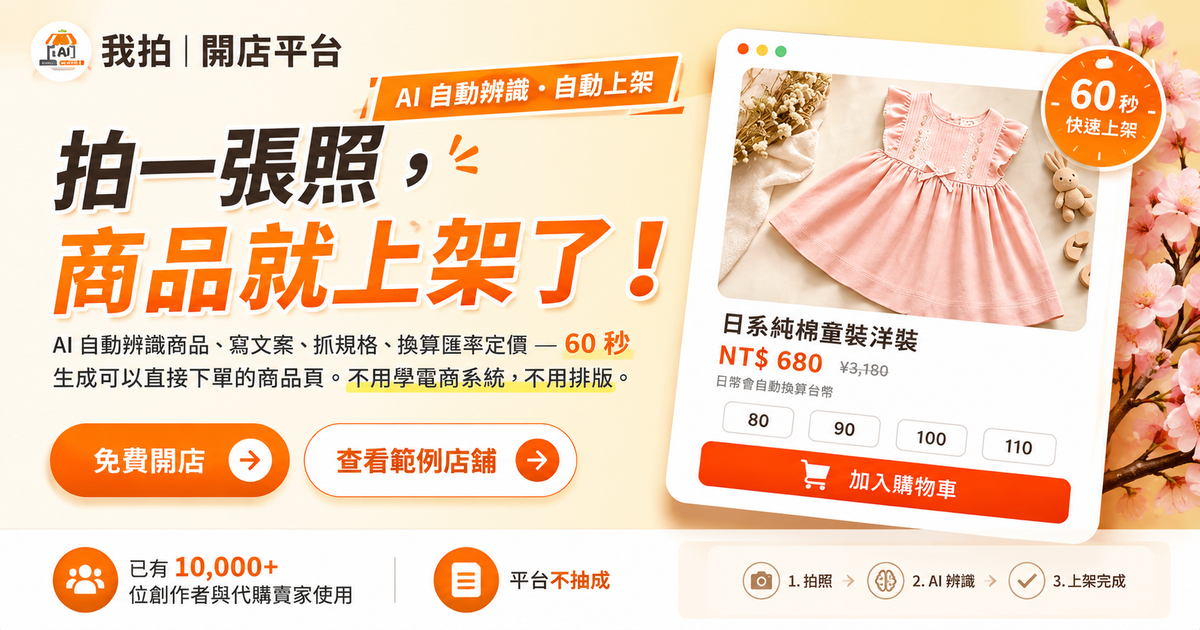
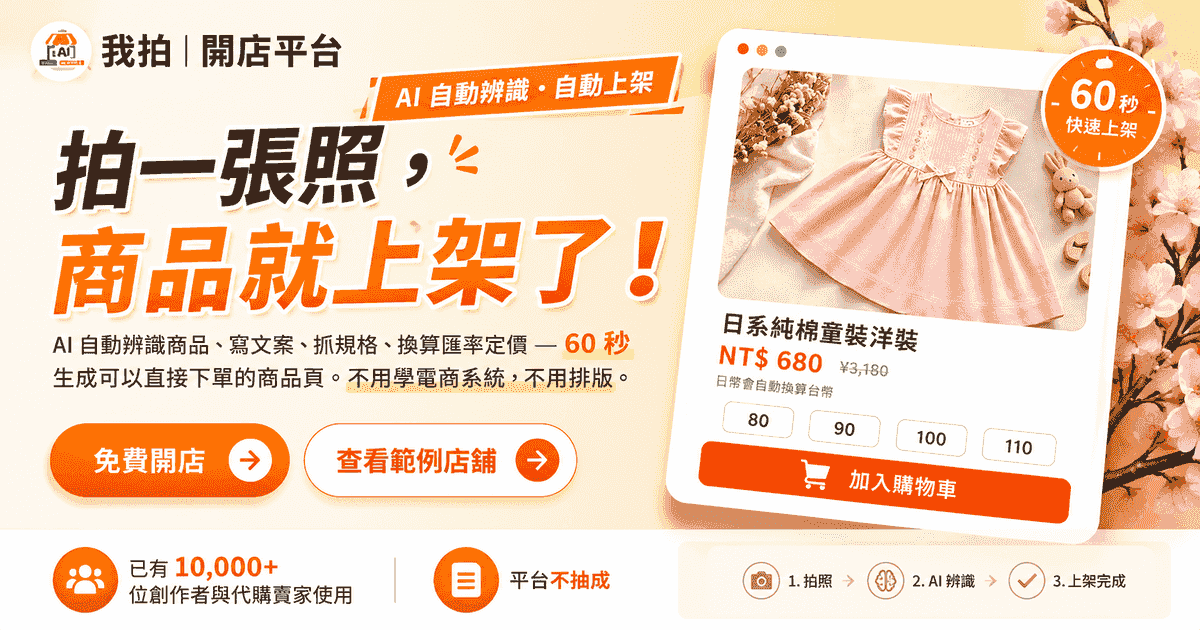
Improve homepage SEO/a11y and auto-purge edge cache on deploy
Homepage (public/index.html):
- Add canonical, robots meta, og:site_name, FAQPage JSON-LD
- Add static FAQ fallback so SEO/no-JS shows content (API still overrides)
- Deepen small CTA/badge contrast to meet AA (~5:1)
- Modal a11y: role=dialog, aria-modal, Esc-to-close, focus trap + restore
- Mobile: 44px dot touch target, full-width hero CTA stack, 64px section padding
- Compress og-image.png 890KB -> 120KB (still 1200x630)

CI (deploy-cloudflare.yml):
- Purge Cloudflare edge cache after deploy so public HTML/og-image
  go live immediately instead of waiting out the 1h SWR cache

diff --git a/public/index.html b/public/index.html
@@ -5,6 +5,9 @@
 <meta name="viewport" content="width=device-width, initial-scale=1.0" />
 <title>我拍 VOVOSnap｜拍一張照，商品就上架了 — AI 自動辨識上架的開店平台</title>
 <meta name="description" content="拍照上傳，AI 自動辨識商品、寫文案、抓規格、換算匯率定價，60 秒生成可下單的商品頁。代購、創作者、小賣家的一鍵開店工具。" />
+<meta name="robots" content="index, follow" />
+<link rel="canonical" href="https://vovosnap.com/" />
+<meta property="og:site_name" content="我拍 VOVOSnap" />
 <meta property="og:title" content="我拍 VOVOSnap｜拍一張照，商品就上架了" />
 <meta property="og:description" content="AI 自動辨識商品、生成文案與售價，60 秒上架開賣。不抽成、不用學電商系統。" />
 <meta property="og:type" content="website" />
@@ -39,6 +42,44 @@
     "price": "0",
     "priceCurrency": "TWD"
   }
+}
+</script>
+<script type="application/ld+json">
+{
+  "@context": "https://schema.org",
+  "@type": "FAQPage",
+  "mainEntity": [
+    {
+      "@type": "Question",
+      "name": "我拍 VOVOSnap 有沒有交易抽成？",
+      "acceptedAnswer": { "@type": "Answer", "text": "沒有！我拍不抽取任何交易手續費。你賺的利潤 100% 是你的，我們只收取月費方案費用。" }
+    },
+    {
+      "@type": "Question",
+      "name": "回國了不想用怎麼辦？",
+      "acceptedAnswer": { "@type": "Answer", "text": "目前是以月為單位計價，不續約就不會再扣款。Free 方案則完全免費，隨時可以使用。請選擇適合您的方案就好！" }
+    },
+    {
+      "@type": "Question",
+      "name": "不從事代購，而是賣自己的二手商品，可以使用嗎？",
+      "acceptedAnswer": { "@type": "Answer", "text": "沒有問題！我們的系統非常適合銷售二手商品，因為東西多上架很麻煩。使用免費方案就能上架十個商品，你可以在自己的社群媒體分享商品網址，有人下單後再用賣貨便或好賣家處理即可。" }
+    },
+    {
+      "@type": "Question",
+      "name": "有提供第三方支付嗎？",
+      "acceptedAnswer": { "@type": "Answer", "text": "沒有喔！代購代買一般為個人經營，我們沒有提供第三方支付。付款方式由你和客人自行約定（例如轉帳、LINE Pay 等）。" }
+    },
+    {
+      "@type": "Question",
+      "name": "方案裡的 AI 文案撰寫是什麼？",
+      "acceptedAnswer": { "@type": "Answer", "text": "內建的 AI 文案可以針對 IG、Reels、Threads 等社群，為你的商店、商品或網址一鍵生成文案，讓你快速分享，不必再花時間想文案。" }
+    },
+    {
+      "@type": "Question",
+      "name": "我是新手，可以學怎麼代購嗎？",
+      "acceptedAnswer": { "@type": "Answer", "text": "當然可以！建議到我們的代購教學文章裡點選觀看，有詳細的圖文教學，手把手帶你從零開始。" }
+    }
+  ]
 }
 </script>
 <link rel="icon" type="image/png" href="/assets/images/logo-icon-64.png" />
@@ -108,6 +149,9 @@ section.alt { background: var(--bg-alt); }
 .btn-ghost:hover { border-color: var(--orange); background: var(--orange-soft); }
 .btn-lg { padding: 15px 36px; font-size: 17px; }
 .btn-sm { padding: 9px 22px; font-size: 14px; }
+/* 小尺寸實心 CTA：白字需更深橘底以達 AA 對比（~5:1）*/
+.btn-sm.btn-primary { background: var(--orange-text); box-shadow: 0 6px 16px rgba(181,77,21,.26); }
+.btn-sm.btn-primary:hover { background: #97400f; }
 /* ── Reveal（JS 啟用時才隱藏；無 JS 預設可見）────── */
 .will-reveal { opacity: 0; transform: translateY(20px);
                transition: opacity .8s var(--ease-out), transform .8s var(--ease-out); }
@@ -124,7 +168,8 @@ section.alt { background: var(--bg-alt); }
 .nav-links a { font-size: 14px; font-weight: 500; letter-spacing: .08em; color: var(--muted); text-decoration: none; transition: color .2s; }
 .nav-links a:hover { color: var(--orange-text); }
 .nav-actions { display: flex; gap: 10px; }
-@media (max-width: 760px) { .nav-links { display: none; } .nav-inner { gap: 12px; } .btn-sm { padding: 9px 16px; } }
+@media (max-width: 760px) { .nav-links { display: none; } .nav-inner { gap: 12px; } .btn-sm { padding: 9px 16px; }
+  section { padding: 64px 0; } }
 @media (max-width: 430px) { .nav-logo span { display: none; } }
 /* ── Hero ────────────────────────────────── */
 .hero { position: relative; padding: 100px 0 88px; overflow: hidden;
@@ -191,6 +236,10 @@ section.alt { background: var(--bg-alt); }
   .hero-grid { grid-template-columns: 1fr; gap: 40px; }
   .hero { padding: 60px 0 56px; }
   .hero-sakura { width: 200px; top: -22px; right: -34px; opacity: .85; }
+}
+@media (max-width: 560px) {
+  .hero-cta { flex-direction: column; align-items: stretch; }
+  .hero-cta .btn { width: 100%; }
 }
 @media (max-width: 480px) {
   .hero-creators { align-items: flex-start; flex-direction: column; gap: 8px; }
@@ -286,19 +335,21 @@ section.alt { background: var(--bg-alt); }
 .billing-toggle-inner { display: inline-flex; background: var(--bg-alt); border-radius: 999px; padding: 4px; border: 1px solid var(--line); }
 .billing-toggle-btn { padding: 9px 24px; border-radius: 999px; border: none; background: transparent; font-family: inherit; font-size: 13px; font-weight: 600; letter-spacing: .04em; color: var(--muted); cursor: pointer; transition: all 0.25s var(--ease-out); position: relative; }
 .billing-toggle-btn.active { background: var(--card); color: var(--ink); box-shadow: 0 2px 10px rgba(86,62,36,0.12); }
-.billing-toggle-btn .toggle-save { display: none; position: absolute; top: -9px; right: -6px; background: var(--orange); color: #fff; font-size: 9px; font-weight: 700; padding: 1px 6px; border-radius: 999px; white-space: nowrap; }
+.billing-toggle-btn .toggle-save { display: none; position: absolute; top: -9px; right: -6px; background: var(--orange-text); color: #fff; font-size: 9px; font-weight: 700; padding: 1px 6px; border-radius: 999px; white-space: nowrap; }
 .billing-toggle-btn.has-save .toggle-save { display: block; }
 .plan-carousel { position: relative; overflow: hidden; margin: 0 -20px; padding: 0 20px; }
 .plan-track { display: flex; gap: 16px; overflow-x: auto; scroll-snap-type: x mandatory; -webkit-overflow-scrolling: touch; scrollbar-width: none; padding: 28px 4px 18px; cursor: grab; }
 .plan-track::-webkit-scrollbar { display: none; }
 .plan-track.is-dragging { cursor: grabbing; scroll-behavior: auto; }
 .plan-dots { display: flex; justify-content: center; gap: 6px; margin-top: 8px; }
-.plan-dot { width: 8px; height: 8px; border-radius: 50%; background: var(--line); border: none; cursor: pointer; padding: 0; transition: all 0.25s var(--ease-out); }
+.plan-dot { position: relative; width: 8px; height: 8px; border-radius: 50%; background: var(--line); border: none; cursor: pointer; padding: 0; transition: all 0.25s var(--ease-out); }
+/* 視覺 8px，觸控熱區擴大到 44px 高以符合 mobile tap target */
+.plan-dot::after { content: ""; position: absolute; inset: -18px -6px; }
 .plan-dot.active { background: var(--orange); width: 22px; border-radius: 999px; }
 .plan { position: relative; background: var(--card); border: 1px solid var(--line); border-radius: var(--radius); padding: 30px 24px 26px; display: flex; flex-direction: column; min-width: 260px; flex-shrink: 0; scroll-snap-align: center; box-shadow: var(--shadow); transition: transform 0.25s var(--ease-out), box-shadow 0.25s var(--ease-out); }
 .plan:hover { transform: translateY(-3px); box-shadow: 0 14px 34px rgba(86,62,36,0.12); }
 .plan.pop { border: 1.5px solid var(--orange); box-shadow: 0 14px 38px rgba(232,107,44,0.16); }
-.plan.pop::before { content: "推薦"; position: absolute; top: -14px; left: 50%; transform: translateX(-50%); background: var(--orange); color: #fff; padding: 4px 18px; border-radius: 999px; font-size: 12px; font-weight: 700; letter-spacing: .2em; text-indent: .2em; }
+.plan.pop::before { content: "推薦"; position: absolute; top: -14px; left: 50%; transform: translateX(-50%); background: var(--orange-text); color: #fff; padding: 4px 18px; border-radius: 999px; font-size: 12px; font-weight: 700; letter-spacing: .2em; text-indent: .2em; }
 .plan-name { font-family: "Noto Serif TC", serif; font-size: 19px; font-weight: 700; letter-spacing: .08em; margin-bottom: 2px; }
 .plan.pop .plan-name { color: var(--orange-text); }
 .plan-desc { font-size: 12px; color: var(--muted); margin-bottom: 14px; }
@@ -635,9 +686,9 @@ section.alt { background: var(--bg-alt); }
 
 <!-- Offer popup -->
 <div class="offer-backdrop" id="offer-backdrop" onclick="if(event.target===this)closePlanOfferPopup()">
-  <div class="offer-modal">
+  <div class="offer-modal" role="dialog" aria-modal="true" aria-labelledby="offer-title">
     <div class="offer-head">
-      <h3>方案優惠說明</h3>
+      <h3 id="offer-title">方案優惠說明</h3>
       <button class="offer-close" type="button" onclick="closePlanOfferPopup()">關閉</button>
     </div>
     <div id="offer-content"></div>
@@ -647,7 +698,7 @@ section.alt { background: var(--bg-alt); }
 
 <!-- Checkout modal -->
 <div class="checkout-backdrop" id="checkout-backdrop">
-  <div class="checkout-modal">
+  <div class="checkout-modal" role="dialog" aria-modal="true" aria-labelledby="checkout-title">
     <h3 id="checkout-title">選擇開通期數</h3>
     <div id="checkout-options"></div>
     <button class="checkout-close" onclick="closeCheckoutModal()">取消</button>
@@ -658,7 +709,33 @@ section.alt { background: var(--bg-alt); }
 <section class="alt" id="faq">
   <div class="wrap center">
     <h2 class="sec-title">常見問題</h2>
-    <div id="faq-list" class="faq-list"></div>
+    <!-- 靜態 FAQ：SEO / 無 JS 時的 fallback；/api/faq 載入成功後由 JS 覆蓋 -->
+    <div id="faq-list" class="faq-list">
+      <div class="faq-item">
+        <button class="faq-q" aria-expanded="false" onclick="toggleFaq(this)">我拍 VOVOSnap 有沒有交易抽成？</button>
+        <div class="faq-a"><p>沒有！我拍不抽取任何交易手續費。你賺的利潤 100% 是你的，我們只收取月費方案費用。</p></div>
+      </div>
+      <div class="faq-item">
+        <button class="faq-q" aria-expanded="false" onclick="toggleFaq(this)">回國了不想用怎麼辦？</button>
+        <div class="faq-a"><p>目前是以月為單位計價，不續約就不會再扣款。Free 方案則完全免費，隨時可以使用。請選擇適合您的方案就好！</p></div>
+      </div>
+      <div class="faq-item">
+        <button class="faq-q" aria-expanded="false" onclick="toggleFaq(this)">不從事代購，而是賣自己的二手商品，可以使用嗎？</button>
+        <div class="faq-a"><p>沒有問題！我們的系統非常適合銷售二手商品，因為東西多上架很麻煩。使用免費方案就能上架十個商品，你可以在自己的社群媒體分享商品網址，有人下單後再用賣貨便或好賣家處理即可。</p></div>
+      </div>
+      <div class="faq-item">
+        <button class="faq-q" aria-expanded="false" onclick="toggleFaq(this)">有提供第三方支付嗎？</button>
+        <div class="faq-a"><p>沒有喔！代購代買一般為個人經營，我們沒有提供第三方支付。付款方式由你和客人自行約定（例如轉帳、LINE Pay 等）。</p></div>
+      </div>
+      <div class="faq-item">
+        <button class="faq-q" aria-expanded="false" onclick="toggleFaq(this)">方案裡的 AI 文案撰寫是什麼？</button>
+        <div class="faq-a"><p>內建的 AI 文案可以針對 IG、Reels、Threads 等社群，為你的商店、商品或網址一鍵生成文案，讓你快速分享，不必再花時間想文案。</p></div>
+      </div>
+      <div class="faq-item">
+        <button class="faq-q" aria-expanded="false" onclick="toggleFaq(this)">我是新手，可以學怎麼代購嗎？</button>
+        <div class="faq-a"><p>當然可以！建議到我們的代購教學文章裡點選觀看，有詳細的圖文教學，手把手帶你從零開始。</p></div>
+      </div>
+    </div>
   </div>
 </section>
 
@@ -842,7 +919,10 @@ function openPlanOfferPopup(focusPlan) {
       '</tbody></table></div>';
   }).join("");
   var back = document.getElementById("offer-backdrop");
-  if (back) back.classList.add("is-open");
+  if (back) {
+    back.classList.add("is-open");
+    modalA11y.open(back.querySelector(".offer-modal"), closePlanOfferPopup);
+  }
   if (focusPlan) {
     setTimeout(function() {
       var node = document.getElementById("offer-" + focusPlan);
@@ -854,6 +934,7 @@ function openPlanOfferPopup(focusPlan) {
 function closePlanOfferPopup() {
   var back = document.getElementById("offer-backdrop");
   if (back) back.classList.remove("is-open");
+  modalA11y.close();
 }
 
 // Billing period toggle
@@ -994,7 +1075,9 @@ function openCheckoutModal(plan) {
         "<span>" + o.months + " 個月" + (bonus ? "（" + bonus + "）" : "") + "</span>" +
         "<strong>NT$ " + Number(o.amount).toLocaleString() + "</strong></button>";
     }).join("");
-    document.getElementById("checkout-backdrop").classList.add("is-open");
+    var ckBack = document.getElementById("checkout-backdrop");
+    ckBack.classList.add("is-open");
+    modalA11y.open(ckBack.querySelector(".checkout-modal"), closeCheckoutModal);
   };
   fetch("/auth/me")
     .then(function(r) { return r.json(); })
@@ -1012,7 +1095,44 @@ function openCheckoutModal(plan) {
 }
 function closeCheckoutModal() {
   document.getElementById("checkout-backdrop").classList.remove("is-open");
+  modalA11y.close();
 }
+
+// ── Modal a11y：Esc 關閉、Tab focus trap、關閉後還原焦點 ──────────────────
+var modalA11y = (function() {
+  var active = null, lastFocus = null, onEsc = null;
+  function focusables(root) {
+    return Array.prototype.slice.call(root.querySelectorAll(
+      'a[href], button:not([disabled]), textarea, input:not([disabled]), select, [tabindex]:not([tabindex="-1"])'
+    )).filter(function(el) { return el.offsetParent !== null; });
+  }
+  function onKey(e) {
+    if (!active) return;
+    if (e.key === "Escape") { e.preventDefault(); if (onEsc) onEsc(); return; }
+    if (e.key !== "Tab") return;
+    var f = focusables(active);
+    if (!f.length) { e.preventDefault(); return; }
+    var first = f[0], last = f[f.length - 1];
+    if (e.shiftKey && document.activeElement === first) { e.preventDefault(); last.focus(); }
+    else if (!e.shiftKey && document.activeElement === last) { e.preventDefault(); first.focus(); }
+  }
+  return {
+    open: function(modalEl, closeFn) {
+      if (!modalEl) return;
+      active = modalEl; onEsc = closeFn; lastFocus = document.activeElement;
+      document.addEventListener("keydown", onKey, true);
+      var f = focusables(modalEl);
+      if (f.length) f[0].focus();
+    },
+    close: function() {
+      if (!active) return;
+      document.removeEventListener("keydown", onKey, true);
+      active = null; onEsc = null;
+      if (lastFocus && typeof lastFocus.focus === "function") lastFocus.focus();
+      lastFocus = null;
+    }
+  };
+})();
 
 // ── Scroll reveal（JS 啟用才隱藏；無 JS / reduced-motion 預設可見）─────────
 (function () {
